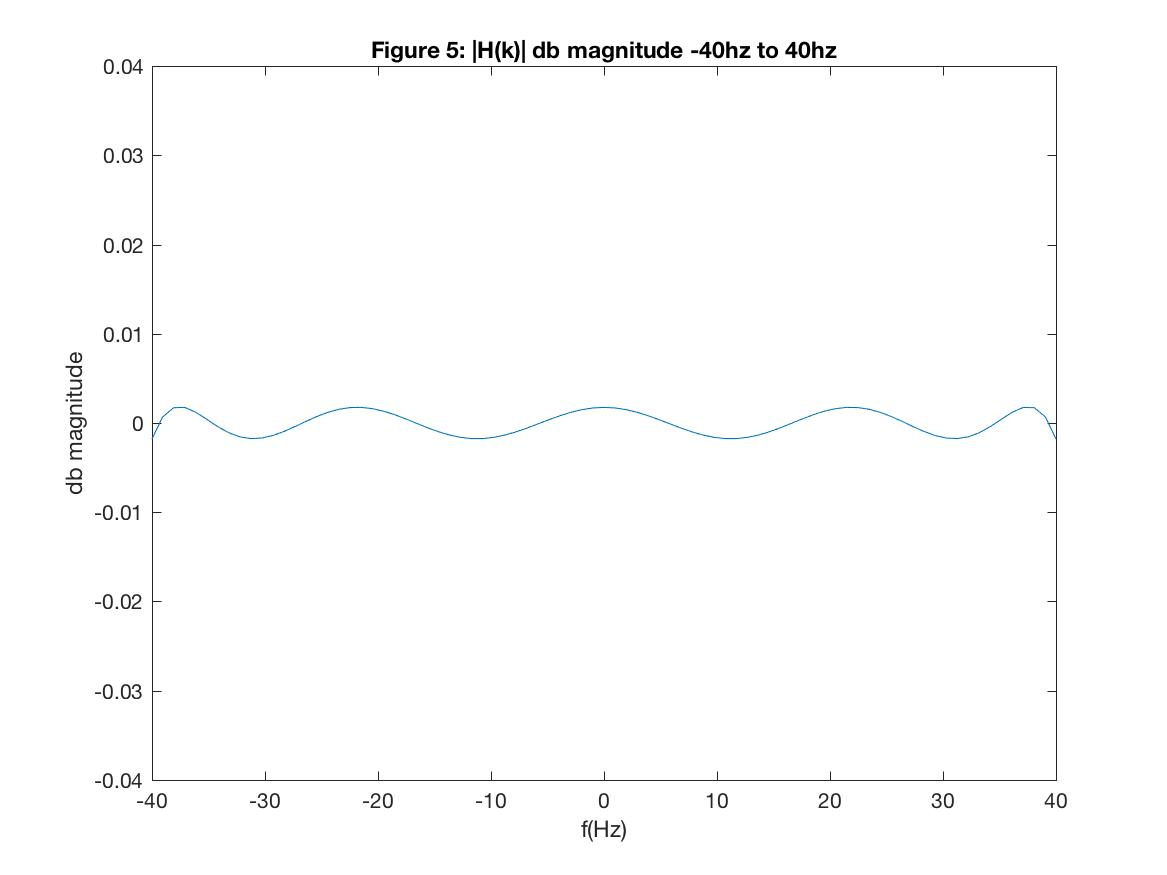
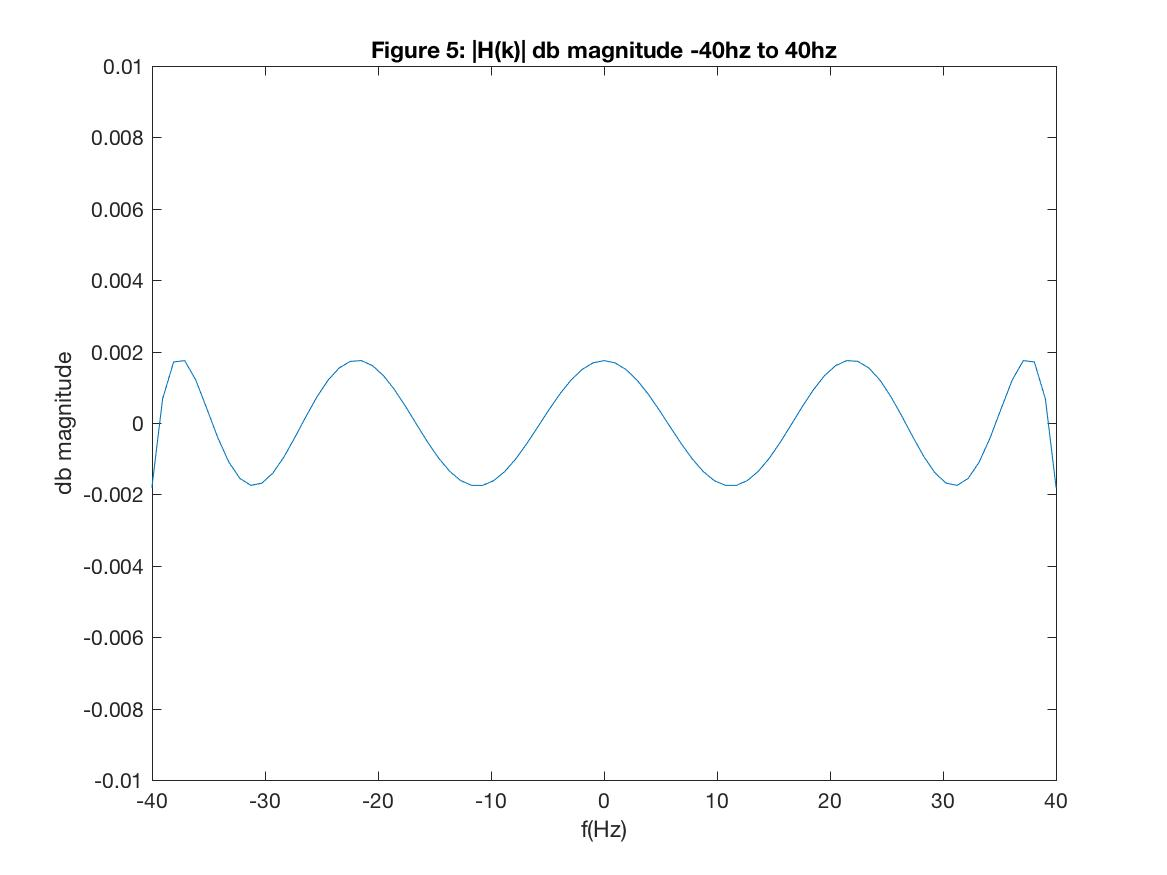
finish coding midterm project

diff --git a/ECE_251/Midterm Project/midtermProject.m b/ECE_251/Midterm Project/midtermProject.m
@@ -18,7 +18,7 @@ n = 0 : NFFT - 1;
 % extracting the first 256 portion of the data
 xn = xt(1:NFFT);
 tosave = figure; 
-stem(xn);
+plot(xn);
 title('Figure 1: x(n) (n = 0, ..., 255)');
 xlabel('n');
 ylabel('amplitude');
@@ -47,7 +47,10 @@ freq_band = [0, 2 * fpc/fs, 2 * fsc/fs, 1];
 hn= firpm(n, freq_band, [1 ,1, 0, 0], [50, 1]);
 %plot hn
 tosave = figure;
-stem(hn);
+plot(hn);
+title('Figure 3: equalrippler FIR filter h(n)');
+xlabel('h(n) magnitude');
+ylabel('n');
 axis([0 64 -0.05 0.15]);
 saveas(tosave, 'figure3.jpg');
 
@@ -70,7 +73,7 @@ tosave = figure;
 plot(fk, 20 * log10(abs(hk)));
 title('Figure 5: |H(k)| db magnitude -40hz to 40hz');
 xlim([-40 40]);
-ylim([-0.04, 0.04])
+ylim([-0.01, 0.01])
 xlabel('f(Hz)');
 ylabel('db magnitude');
 saveas(tosave, 'figure 5.jpg');
